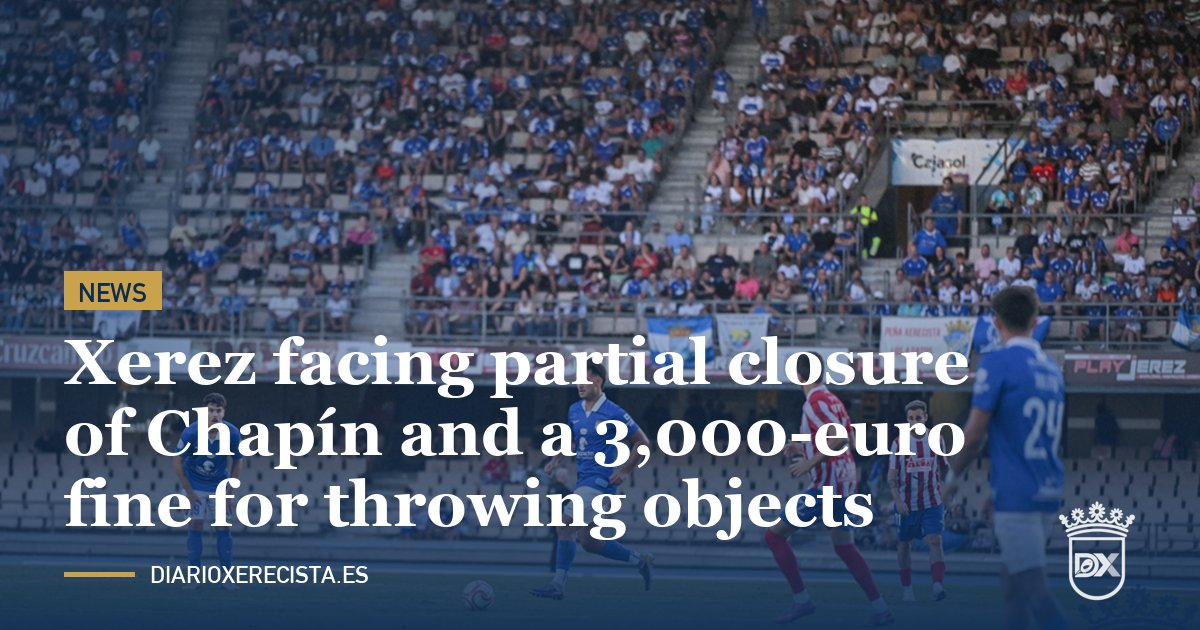
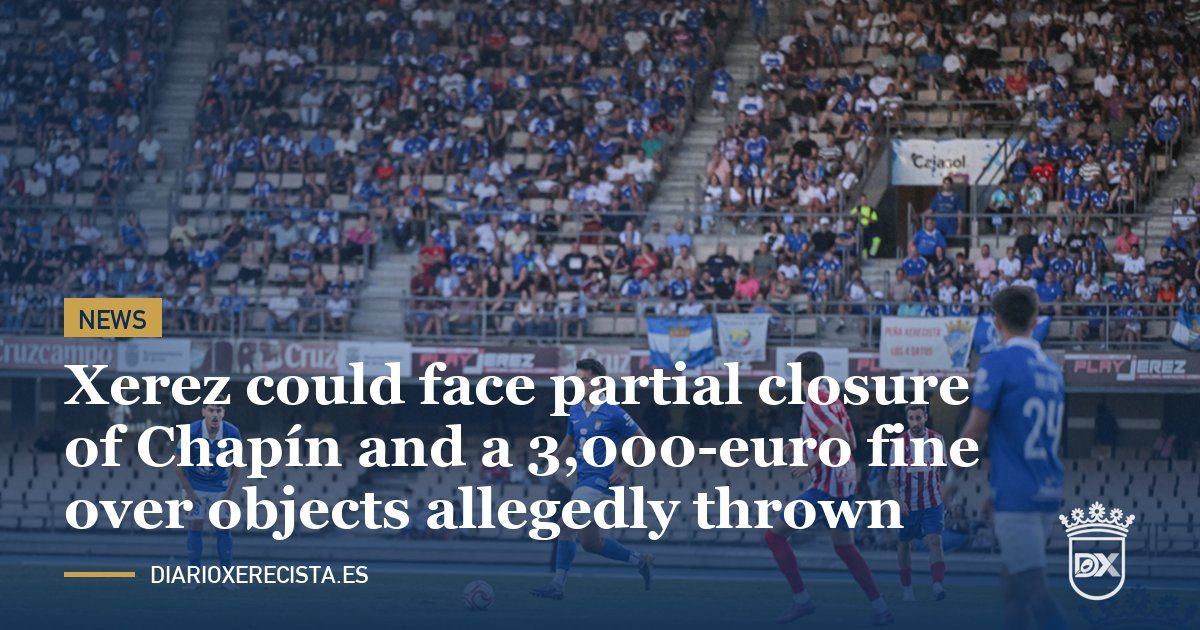
art118: en condicional y presuntamente; incidente según el acta (sin el 83')

Changed region(s): [[0.0308, 0.4222, 0.8325, 0.8746]]

diff --git a/noticias/articulos/2026-10/el-xerez-abocado-al-cierre-parcial-de-chapin-y-a-una-multa-de-3000-euros-por-el-lanzamiento-de-objetos/index.html b/noticias/articulos/2026-10/el-xerez-abocado-al-cierre-parcial-de-chapin-y-a-una-multa-de-3000-euros-por-el-lanzamiento-de-objetos/index.html
@@ -3,8 +3,8 @@
 <head>
 <meta charset="UTF-8">
 <meta name="viewport" content="width=device-width, initial-scale=1.0">
-<title>El Xerez, abocado al cierre parcial de Chapín y a una multa de 3.000 euros por el lanzamiento de objetos | Diario Xerecista</title>
-<meta name="description" content="El club será sancionado previsiblemente por reincidir en el lanzamiento de objetos al terreno de juego, después de lo ocurrido en el derbi de Copa ante el Cádiz CF.">
+<title>El Xerez se expone al cierre parcial de Chapín y a una multa de 3.000 euros por el presunto lanzamiento de objetos | Diario Xerecista</title>
+<meta name="description" content="El club podría ser sancionado por una presunta reincidencia en el lanzamiento de objetos al terreno de juego, después de lo ocurrido en el derbi de Copa ante el Cádiz CF.">
 <meta name="robots" content="index, follow, max-snippet:-1, max-image-preview:large">
 <link rel="canonical" href="https://www.diarioxerecista.es/noticias/articulos/2026-10/el-xerez-abocado-al-cierre-parcial-de-chapin-y-a-una-multa-de-3000-euros-por-el-lanzamiento-de-objetos/">
 <link rel="alternate" hreflang="es" href="https://www.diarioxerecista.es/noticias/articulos/2026-10/el-xerez-abocado-al-cierre-parcial-de-chapin-y-a-una-multa-de-3000-euros-por-el-lanzamiento-de-objetos/">
@@ -13,8 +13,8 @@
 
 <meta property="og:type" content="article">
 <meta property="og:site_name" content="Diario Xerecista">
-<meta property="og:title" content="El Xerez, abocado al cierre parcial de Chapín y a una multa de 3.000 euros por el lanzamiento de objetos">
-<meta property="og:description" content="El club será sancionado previsiblemente por reincidir en el lanzamiento de objetos al terreno de juego, después de lo ocurrido en el derbi de Copa ante el Cádiz CF.">
+<meta property="og:title" content="El Xerez se expone al cierre parcial de Chapín y a una multa de 3.000 euros por el presunto lanzamiento de objetos">
+<meta property="og:description" content="El club podría ser sancionado por una presunta reincidencia en el lanzamiento de objetos al terreno de juego, después de lo ocurrido en el derbi de Copa ante el Cádiz CF.">
 <meta property="og:url" content="https://www.diarioxerecista.es/noticias/articulos/2026-10/el-xerez-abocado-al-cierre-parcial-de-chapin-y-a-una-multa-de-3000-euros-por-el-lanzamiento-de-objetos/">
 <meta property="og:image" content="https://www.diarioxerecista.es/fotos/redes/art118-es.jpg">
 <meta property="og:image:width" content="1200">
@@ -22,8 +22,8 @@
 <meta property="og:locale" content="es_ES">
 
 <meta name="twitter:card" content="summary_large_image">
-<meta name="twitter:title" content="El Xerez, abocado al cierre parcial de Chapín y a una multa de 3.000 euros por el lanzamiento de objetos">
-<meta name="twitter:description" content="El club será sancionado previsiblemente por reincidir en el lanzamiento de objetos al terreno de juego, después de lo ocurrido en el derbi de Copa ante el Cádiz CF.">
+<meta name="twitter:title" content="El Xerez se expone al cierre parcial de Chapín y a una multa de 3.000 euros por el presunto lanzamiento de objetos">
+<meta name="twitter:description" content="El club podría ser sancionado por una presunta reincidencia en el lanzamiento de objetos al terreno de juego, después de lo ocurrido en el derbi de Copa ante el Cádiz CF.">
 <meta name="twitter:image" content="https://www.diarioxerecista.es/fotos/redes/art118-es.jpg">
 
 <link rel="preconnect" href="https://fonts.googleapis.com">
@@ -35,8 +35,8 @@
 {
   "@context": "https://schema.org",
   "@type": "NewsArticle",
-  "headline": "El Xerez, abocado al cierre parcial de Chapín y a una multa de 3.000 euros por el lanzamiento de objetos",
-  "description": "El club será sancionado previsiblemente por reincidir en el lanzamiento de objetos al terreno de juego, después de lo ocurrido en el derbi de Copa ante el Cádiz CF.",
+  "headline": "El Xerez se expone al cierre parcial de Chapín y a una multa de 3.000 euros por el presunto lanzamiento de objetos",
+  "description": "El club podría ser sancionado por una presunta reincidencia en el lanzamiento de objetos al terreno de juego, después de lo ocurrido en el derbi de Copa ante el Cádiz CF.",
   "image": [
     "https://www.diarioxerecista.es/fotos/publicadas/xerez-donbenito-j3-chapin-grada.jpg"
   ],
@@ -75,28 +75,28 @@
 
   <main class="n-article">
     <span class="eyebrow">Xerez CD · Disciplina</span>
-    <h1>El Xerez, abocado al cierre parcial de Chapín y a una multa de 3.000 euros por el lanzamiento de objetos</h1>
+    <h1>El Xerez se expone al cierre parcial de Chapín y a una multa de 3.000 euros por el presunto lanzamiento de objetos</h1>
 
     <div class="n-photo">
       <img src="../../../../fotos/publicadas/xerez-donbenito-j3-chapin-grada.jpg" alt="Aficionados del Xerez CD en la grada de Chapín" loading="lazy">
       <span class="n-credit">Foto: Diario Xerecista</span>
     </div>
 
-    <p class="lead">El club será sancionado previsiblemente por reincidir en el lanzamiento de objetos al terreno de juego, después de lo ocurrido en el derbi de Copa ante el Cádiz CF.</p>
+    <p class="lead">El club podría ser sancionado por una presunta reincidencia en el lanzamiento de objetos al terreno de juego, después de lo ocurrido en el derbi de Copa ante el Cádiz CF.</p>
 
-    <p>El Xerez CD será sancionado, previsiblemente, con el cierre parcial de su estadio y una multa de 3.000 euros por reincidencia en el lanzamiento de objetos.</p>
+    <p>El Xerez CD podría ser sancionado con el cierre parcial de su estadio y una multa de 3.000 euros por presunta reincidencia en el lanzamiento de objetos.</p>
 
-    <p>La sanción llega tras el derbi de la primera eliminatoria de la Copa del Rey ante el Cádiz CF, jugado el jueves en Chapín (1-3). En el minuto 60, después del 1-2 de García Pascual, el árbitro del partido, Sánchez Villalobos, activó el protocolo por lanzamiento de objetos desde la curva del Fondo Sur, sin que ninguno impactara en ningún jugador. También hubo lanzamiento de objetos tras el tercer gol del Cádiz, obra de Borja Vázquez en el minuto 83, y el árbitro lo dejó reflejado en el acta.</p>
+    <p>La posible sanción llegaría tras el derbi de la primera eliminatoria de la Copa del Rey ante el Cádiz CF, jugado el jueves en Chapín (1-3). Según el acta arbitral, en el minuto 60, después del 1-2 de García Pascual, el árbitro del partido, Sánchez Villalobos, activó la fase 1 del protocolo por lanzamiento de objetos, al lanzarse botellas de agua y refrescos al terreno de juego desde un sector del estadio donde se ubicaban aficionados del club local, sin que ninguno de estos objetos llegara a impactar sobre persona alguna. Se advirtió al público por megafonía de que, si se repetía, el encuentro se suspendería temporalmente. El partido estuvo detenido dos minutos y 30 segundos y, tras ello, continuó sin ninguna otra incidencia, según recoge el acta.</p>
 
     <h2>Reincidencia</h2>
 
-    <p>No es la primera vez esta temporada. En el partido de liga ante el Ciudad de Lucena, el 18 de octubre en Chapín, el club ya recibió un apercibimiento de cierre parcial y una multa de 600 euros, y ante el Cádiz ha vuelto a ocurrir lo mismo. Esa condición de reincidente es la que agrava el castigo, que pasa de la multa al cierre parcial del recinto.</p>
+    <p>No sería la primera vez esta temporada. En el partido de liga ante el Ciudad de Lucena, el 18 de octubre en Chapín, el club ya recibió un apercibimiento de cierre parcial y una multa de 600 euros, y ante el Cádiz se habrían repetido presuntamente los hechos. Esa posible reincidencia es la que podría agravar el castigo, que pasaría de la multa al cierre parcial del recinto.</p>
 
     <p>Queda por conocer qué zona del estadio se verá afectada, en caso de que así sea, y en qué partido se cumpliría la sanción. El próximo encuentro del Xerez en casa, ante el Antoniano, no tiene campo aún, ya que Chapín está en plena resiembra, con lo cual habrá que estar a la expectativa en caso del cierre parcial.</p>
 
     <div class="n-meta-row">
       <span class="byline">Redacción — 30 de octubre de 2026</span>
-      <a href="https://x.com/intent/tweet?text=El%20Xerez%2C%20abocado%20al%20cierre%20parcial%20de%20Chap%C3%ADn%20y%20a%20una%20multa%20de%203.000%20euros%20por%20el%20lanzamiento%20de%20objetos%0A%0Ahttps%3A%2F%2Fwww.diarioxerecista.es%2Fnoticias%2Farticulos%2F2026-10%2Fel-xerez-abocado-al-cierre-parcial-de-chapin-y-a-una-multa-de-3000-euros-por-el-lanzamiento-de-objetos%2F%0A%0A%23XerezCD" target="_blank" rel="noopener" class="share-x-btn">Compartir en 𝕏</a>
+      <a href="https://x.com/intent/tweet?text=El%20Xerez%20se%20expone%20al%20cierre%20parcial%20de%20Chap%C3%ADn%20y%20a%20una%20multa%20de%203.000%20euros%20por%20el%20presunto%20lanzamiento%20de%20objetos%0A%0Ahttps%3A%2F%2Fwww.diarioxerecista.es%2Fnoticias%2Farticulos%2F2026-10%2Fel-xerez-abocado-al-cierre-parcial-de-chapin-y-a-una-multa-de-3000-euros-por-el-lanzamiento-de-objetos%2F%0A%0A%23XerezCD" target="_blank" rel="noopener" class="share-x-btn">Compartir en 𝕏</a>
     </div>
 
     <a class="back-link" href="../../../../en/noticias/articulos/2026-10/xerez-facing-partial-closure-of-chapin-and-a-3000-euro-fine-for-throwing-objects/" style="display:block;margin-bottom:10px;">🇬🇧 Read in English</a>

diff --git a/en/noticias/articulos/2026-10/xerez-facing-partial-closure-of-chapin-and-a-3000-euro-fine-for-throwing-objects/index.html b/en/noticias/articulos/2026-10/xerez-facing-partial-closure-of-chapin-and-a-3000-euro-fine-for-throwing-objects/index.html
@@ -3,8 +3,8 @@
 <head>
 <meta charset="UTF-8">
 <meta name="viewport" content="width=device-width, initial-scale=1.0">
-<title>Xerez facing partial closure of Chapín and a 3,000-euro fine for throwing objects | Diario Xerecista</title>
-<meta name="description" content="The club is expected to be sanctioned as a repeat offender for objects thrown onto the pitch, following what happened in the Copa derby against Cádiz CF.">
+<title>Xerez could face partial closure of Chapín and a 3,000-euro fine over objects allegedly thrown | Diario Xerecista</title>
+<meta name="description" content="The club could be sanctioned for an alleged repeat offence of objects thrown onto the pitch, following what happened in the Copa derby against Cádiz CF.">
 <meta name="robots" content="index, follow, max-snippet:-1, max-image-preview:large">
 <link rel="canonical" href="https://www.diarioxerecista.es/en/noticias/articulos/2026-10/xerez-facing-partial-closure-of-chapin-and-a-3000-euro-fine-for-throwing-objects/">
 <link rel="alternate" hreflang="es" href="https://www.diarioxerecista.es/noticias/articulos/2026-10/el-xerez-abocado-al-cierre-parcial-de-chapin-y-a-una-multa-de-3000-euros-por-el-lanzamiento-de-objetos/">
@@ -13,8 +13,8 @@
 
 <meta property="og:type" content="article">
 <meta property="og:site_name" content="Diario Xerecista">
-<meta property="og:title" content="Xerez facing partial closure of Chapín and a 3,000-euro fine for throwing objects">
-<meta property="og:description" content="The club is expected to be sanctioned as a repeat offender for objects thrown onto the pitch, following what happened in the Copa derby against Cádiz CF.">
+<meta property="og:title" content="Xerez could face partial closure of Chapín and a 3,000-euro fine over objects allegedly thrown">
+<meta property="og:description" content="The club could be sanctioned for an alleged repeat offence of objects thrown onto the pitch, following what happened in the Copa derby against Cádiz CF.">
 <meta property="og:url" content="https://www.diarioxerecista.es/en/noticias/articulos/2026-10/xerez-facing-partial-closure-of-chapin-and-a-3000-euro-fine-for-throwing-objects/">
 <meta property="og:image" content="https://www.diarioxerecista.es/fotos/redes/art118-en.jpg">
 <meta property="og:image:width" content="1200">
@@ -22,8 +22,8 @@
 <meta property="og:locale" content="en_GB">
 
 <meta name="twitter:card" content="summary_large_image">
-<meta name="twitter:title" content="Xerez facing partial closure of Chapín and a 3,000-euro fine for throwing objects">
-<meta name="twitter:description" content="The club is expected to be sanctioned as a repeat offender for objects thrown onto the pitch, following what happened in the Copa derby against Cádiz CF.">
+<meta name="twitter:title" content="Xerez could face partial closure of Chapín and a 3,000-euro fine over objects allegedly thrown">
+<meta name="twitter:description" content="The club could be sanctioned for an alleged repeat offence of objects thrown onto the pitch, following what happened in the Copa derby against Cádiz CF.">
 <meta name="twitter:image" content="https://www.diarioxerecista.es/fotos/redes/art118-en.jpg">
 
 <link rel="preconnect" href="https://fonts.googleapis.com">
@@ -35,8 +35,8 @@
 {
   "@context": "https://schema.org",
   "@type": "NewsArticle",
-  "headline": "Xerez facing partial closure of Chapín and a 3,000-euro fine for throwing objects",
-  "description": "The club is expected to be sanctioned as a repeat offender for objects thrown onto the pitch, following what happened in the Copa derby against Cádiz CF.",
+  "headline": "Xerez could face partial closure of Chapín and a 3,000-euro fine over objects allegedly thrown",
+  "description": "The club could be sanctioned for an alleged repeat offence of objects thrown onto the pitch, following what happened in the Copa derby against Cádiz CF.",
   "image": [
     "https://www.diarioxerecista.es/fotos/publicadas/xerez-donbenito-j3-chapin-grada.jpg"
   ],
@@ -75,28 +75,28 @@
 
   <main class="n-article">
     <span class="eyebrow">Xerez CD · Discipline</span>
-    <h1>Xerez facing partial closure of Chapín and a 3,000-euro fine for throwing objects</h1>
+    <h1>Xerez could face partial closure of Chapín and a 3,000-euro fine over objects allegedly thrown</h1>
 
     <div class="n-photo">
       <img src="../../../../../fotos/publicadas/xerez-donbenito-j3-chapin-grada.jpg" alt="Xerez CD supporters in the stands at Chapín" loading="lazy">
       <span class="n-credit">Photo: Diario Xerecista</span>
     </div>
 
-    <p class="lead">The club is expected to be sanctioned as a repeat offender for objects thrown onto the pitch, following what happened in the Copa derby against Cádiz CF.</p>
+    <p class="lead">The club could be sanctioned for an alleged repeat offence of objects thrown onto the pitch, following what happened in the Copa derby against Cádiz CF.</p>
 
-    <p>Xerez CD are expected to be sanctioned with the partial closure of their stadium and a 3,000-euro fine as repeat offenders for throwing objects.</p>
+    <p>Xerez CD could be sanctioned with the partial closure of their stadium and a 3,000-euro fine for an alleged repeat offence of throwing objects.</p>
 
-    <p>The sanction follows the Copa del Rey first-round derby against Cádiz CF, played on Thursday at Chapín (1-3). In the 60th minute, after García Pascual made it 1-2, the match referee, Sánchez Villalobos, activated the protocol for objects thrown from the Fondo Sur curve, although none of them hit any player. Objects were also thrown after Cádiz's third goal, scored by Borja Vázquez in the 83rd minute, and the referee recorded it in the match report.</p>
+    <p>The possible sanction would follow the Copa del Rey first-round derby against Cádiz CF, played on Thursday at Chapín (1-3). According to the referee's report, in the 60th minute, after García Pascual made it 1-2, the match referee, Sánchez Villalobos, activated phase 1 of the protocol for thrown objects, after bottles of water and soft drinks were thrown onto the pitch from a section of the stadium occupied by home supporters, without any of them hitting anyone. The crowd was warned over the public address system that, if it happened again, the match would be temporarily suspended. The game was stopped for two minutes and 30 seconds and then continued without any further incident, according to the report.</p>
 
     <h2>Repeat offence</h2>
 
-    <p>It is not the first time this season. In the league match against Ciudad de Lucena, on 18 October at Chapín, the club had already received a warning of partial closure and a 600-euro fine, and against Cádiz the same thing happened again. Being a repeat offender is what makes the punishment harsher, going from a fine to the partial closure of the ground.</p>
+    <p>It would not be the first time this season. In the league match against Ciudad de Lucena, on 18 October at Chapín, the club had already received a warning of partial closure and a 600-euro fine, and against Cádiz the incidents allegedly happened again. That possible repeat offence is what could make the punishment harsher, going from a fine to the partial closure of the ground.</p>
 
     <p>It remains to be seen which area of the stadium would be affected, if that is the case, and in which match the sanction would be served. Xerez's next home game, against Antoniano, does not yet have a venue, as Chapín is being reseeded, so we will have to wait and see in the event of a partial closure.</p>
 
     <div class="n-meta-row">
       <span class="byline">Newsroom — 30 October 2026</span>
-      <a href="https://x.com/intent/tweet?text=Xerez%20facing%20partial%20closure%20of%20Chap%C3%ADn%20and%20a%203%2C000-euro%20fine%20for%20throwing%20objects%0A%0Ahttps%3A%2F%2Fwww.diarioxerecista.es%2Fen%2Fnoticias%2Farticulos%2F2026-10%2Fxerez-facing-partial-closure-of-chapin-and-a-3000-euro-fine-for-throwing-objects%2F%0A%0A%23XerezCD" target="_blank" rel="noopener" class="share-x-btn">Share on 𝕏</a>
+      <a href="https://x.com/intent/tweet?text=Xerez%20could%20face%20partial%20closure%20of%20Chap%C3%ADn%20and%20a%203%2C000-euro%20fine%20over%20objects%20allegedly%20thrown%0A%0Ahttps%3A%2F%2Fwww.diarioxerecista.es%2Fen%2Fnoticias%2Farticulos%2F2026-10%2Fxerez-facing-partial-closure-of-chapin-and-a-3000-euro-fine-for-throwing-objects%2F%0A%0A%23XerezCD" target="_blank" rel="noopener" class="share-x-btn">Share on 𝕏</a>
     </div>
 
     <a class="back-link" href="../../../../../noticias/articulos/2026-10/el-xerez-abocado-al-cierre-parcial-de-chapin-y-a-una-multa-de-3000-euros-por-el-lanzamiento-de-objetos/" style="display:block;margin-bottom:10px;">🇪🇸 Leer en español</a>
